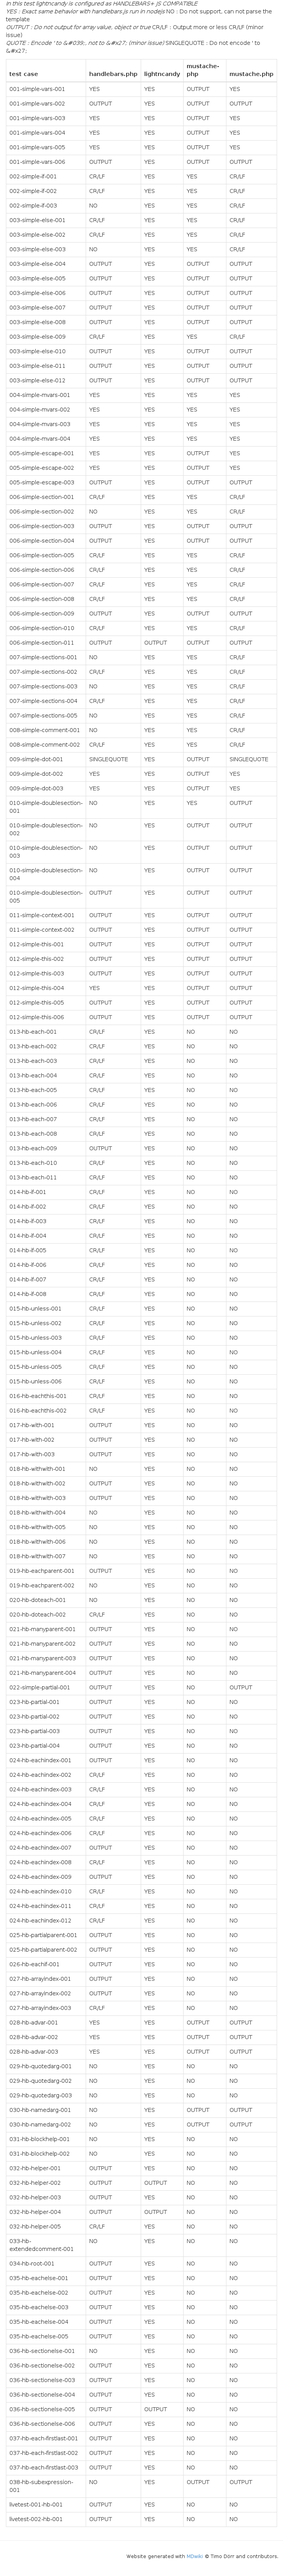
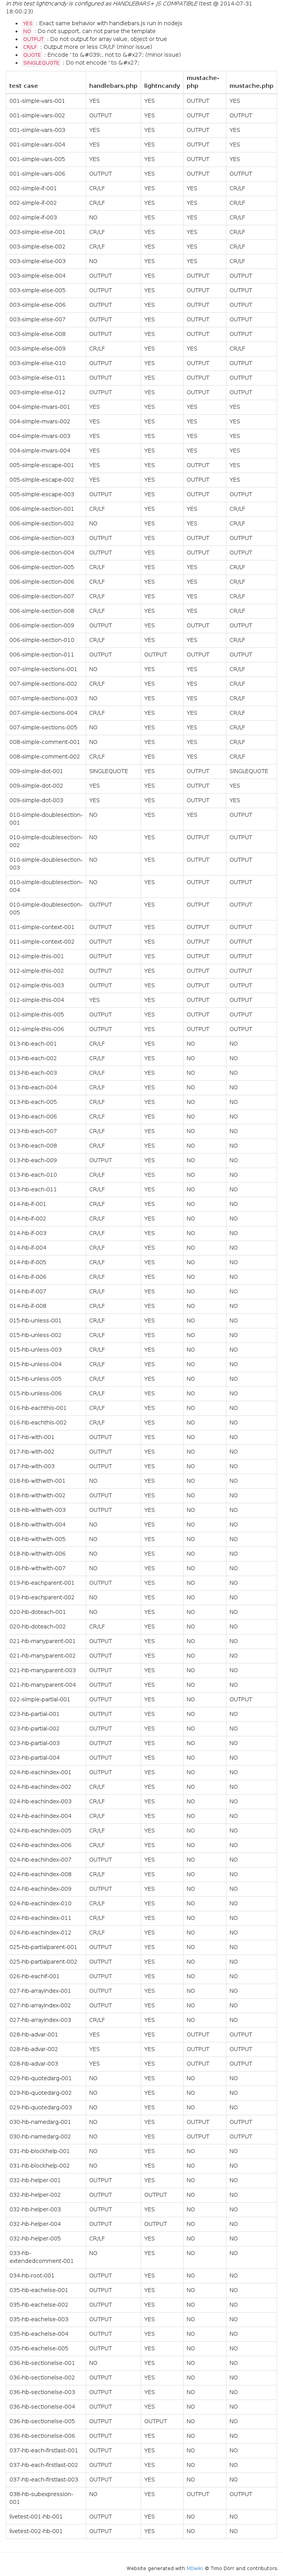
Auto commit generated feature list [ci skip]

Changed region(s): [[0.0306, 0.0, 0.6417, 0.9665], [0.7944, 0.0312, 0.8861, 0.9665], [0.6417, 0.0, 0.7639, 0.9665]]

diff --git a/FEATURES.md b/FEATURES.md
@@ -1,10 +1,11 @@
-*In this test lightncandy is configured as HANDLEBARS+ JS COMPATIBLE*
-* YES : Exact same behavior with handlebars.js run in nodejs
-* NO : Do not support, can not parse the template
-* OUTPUT : Do not output for array value, object or true
-* CR/LF : Output more or less CR/LF (minor issue)
-* QUOTE : Encode ' to &amp;#039;, not to &amp;#x27; (minor issue)
-* SINGLEQUOTE : Do not encode ' to &amp;#x27;
+*In this test lightncandy is configured as HANDLEBARS+ JS COMPATIBLE* (test @ 2014-07-31 18:00:23)
+
+  * `YES` : Exact same behavior with handlebars.js run in nodejs
+  * `NO` : Do not support, can not parse the template
+  * `OUTPUT` : Do not output for array value, object or true
+  * `CR/LF` : Output more or less CR/LF (minor issue)
+  * `QUOTE` : Encode ' to &amp;#039;, not to &amp;#x27; (minor issue)
+  * `SINGLEQUOTE` : Do not encode ' to &amp;#x27;
 
 
 |	test case		| handlebars.php	|	lightncandy	|	mustache-php	|	mustache.php	|
